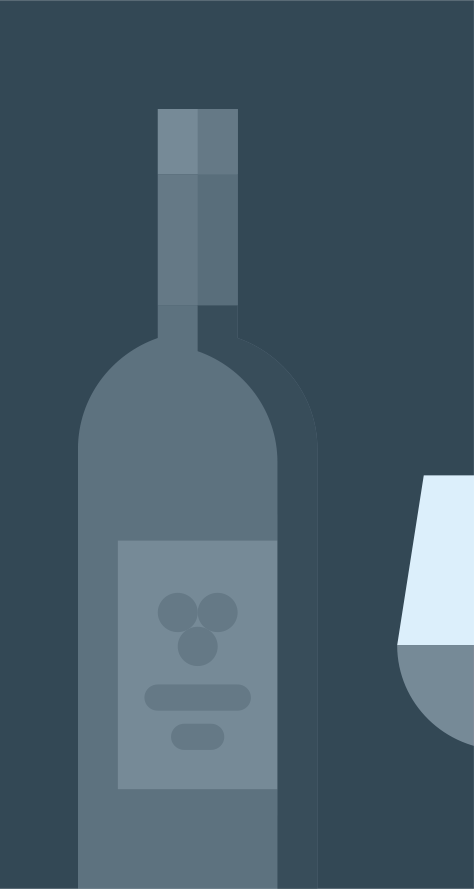
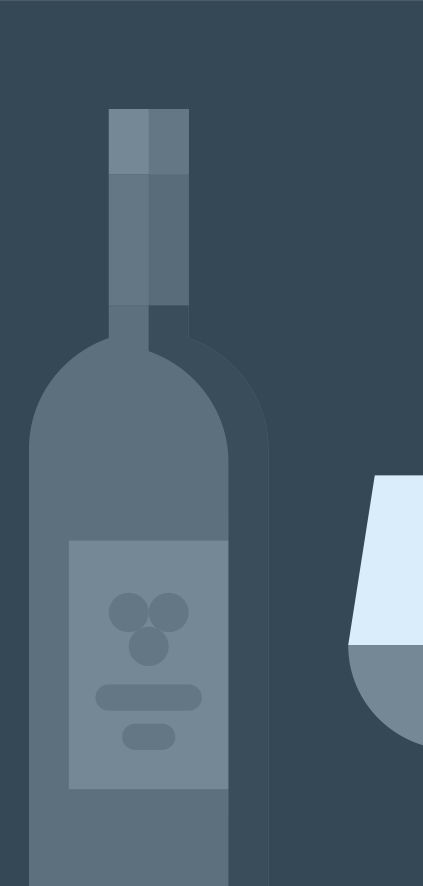
Reglage du site

Changed region(s): [[0.0615, 0.1219, 0.5839, 1.0], [0.7991, 0.5181, 1.0, 0.8228]]

diff --git a/index.html b/index.html
@@ -180,7 +180,9 @@
                                 <h3>Fête des bières bretonnes de Landrévarzec Janvier 2018</h3>
                                 <p>01/12/2017</p>
                             </div>
-                            <div class="swiper-slide-texte"><p>Lorem ipsum, dolor sit amet consectetur adipisicing elit. Asperiores ad, itaque minus harum laborum sequi quae a voluptas soluta nobis illum placeat. Maiores eius minus suscipit nulla dolore aspernatur molestiae. Lorem ipsum dolor sit amet consectetur adipisicing elit. Autem quam aspernatur fugit minus at facere, mollitia earum dignissimos. Obcaecati dignissimos sit doloremque! Ab minima quo nesciunt voluptatum dolore voluptates blanditiis.<br /><br />Lorem ipsum dolor sit amet consectetur adipisicing elit. Nemo, perspiciatis quia! Repudiandae aspernatur suscipit quidem molestiae impedit sunt possimus quia, ullam dolorum neque ipsam consequuntur? Ducimus iusto delectus. Lorem ipsum dolor sit amet consectetur adipisicing elit. Et laborum accusamus excepturi iusto libero officia dolores, minus earum, veritatis alias adipisci expedita maiores delectus magni id nesciunt, officiis unde? Dolore!</p>
+                            <div class="swiper-slide-texte">
+                                <p>Lorem ipsum, dolor sit amet consectetur adipisicing elit. Asperiores ad, itaque minus harum laborum sequi quae a voluptas soluta nobis illum placeat. Maiores eius minus suscipit nulla dolore aspernatur molestiae. Lorem ipsum dolor sit amet consectetur adipisicing elit. Autem quam aspernatur fugit minus at facere, mollitia earum dignissimos. Obcaecati dignissimos sit doloremque! </p>
+                                <a href="index.html">En savoir plus</a>
                             </div>
                         </div>
                         <div class="swiper-slide">
@@ -188,7 +190,9 @@
                                 <h3>Où sortir à Rennes ?</h3>
                                 <p>15/01/2018</p>
                             </div>
-                            <div class="swiper-slide-texte">Lorem ipsum, dolor sit amet consectetur adipisicing elit. Asperiores ad, itaque minus harum laborum sequi quae a voluptas soluta nobis illum placeat. Maiores eius minus suscipit nulla dolore aspernatur molestiae. Lorem ipsum dolor sit amet consectetur adipisicing elit. Autem quam aspernatur fugit minus at facere, mollitia earum dignissimos. Obcaecati dignissimos sit doloremque! Ab minima quo nesciunt voluptatum dolore voluptates blanditiis.<br /><br />Lorem ipsum dolor sit amet consectetur adipisicing elit. Nemo, perspiciatis quia! Repudiandae aspernatur suscipit quidem molestiae impedit sunt possimus quia, ullam dolorum neque ipsam consequuntur? Ducimus iusto delectus. Lorem ipsum dolor sit amet consectetur adipisicing elit. Et laborum accusamus excepturi iusto libero officia dolores, minus earum, veritatis alias adipisci expedita maiores delectus magni id nesciunt, officiis unde? Dolore!
+                            <div class="swiper-slide-texte">
+                                <p>Lorem ipsum, dolor sit amet consectetur adipisicing elit. Asperiores ad, itaque minus harum laborum sequi quae a voluptas soluta nobis illum placeat. Maiores eius minus suscipit nulla dolore aspernatur molestiae. Lorem ipsum dolor sit amet consectetur adipisicing elit. Autem quam aspernatur fugit minus at facere, mollitia earum dignissimos. Obcaecati dignissimos sit doloremque! </p>
+                                <a href="index.html">En savoir plus</a>
                             </div>
                         </div>
                         <div class="swiper-slide">
@@ -196,7 +200,9 @@
                                 <h3>Recettes de cocktails et boissons</h3>
                                 <p>20/02/2018</p>
                             </div>
-                            <div class="swiper-slide-texte">Lorem ipsum, dolor sit amet consectetur adipisicing elit. Asperiores ad, itaque minus harum laborum sequi quae a voluptas soluta nobis illum placeat. Maiores eius minus suscipit nulla dolore aspernatur molestiae. Lorem ipsum dolor sit amet consectetur adipisicing elit. Autem quam aspernatur fugit minus at facere, mollitia earum dignissimos. Obcaecati dignissimos sit doloremque! Ab minima quo nesciunt voluptatum dolore voluptates blanditiis.<br /><br />Lorem ipsum dolor sit amet consectetur adipisicing elit. Nemo, perspiciatis quia! Repudiandae aspernatur suscipit quidem molestiae impedit sunt possimus quia, ullam dolorum neque ipsam consequuntur? Ducimus iusto delectus. Lorem ipsum dolor sit amet consectetur adipisicing elit. Et laborum accusamus excepturi iusto libero officia dolores, minus earum, veritatis alias adipisci expedita maiores delectus magni id nesciunt, officiis unde? Dolore!
+                            <div class="swiper-slide-texte">
+                                <p>Lorem ipsum, dolor sit amet consectetur adipisicing elit. Asperiores ad, itaque minus harum laborum sequi quae a voluptas soluta nobis illum placeat. Maiores eius minus suscipit nulla dolore aspernatur molestiae. Lorem ipsum dolor sit amet consectetur adipisicing elit. Autem quam aspernatur fugit minus at facere, mollitia earum dignissimos. Obcaecati dignissimos sit doloremque! </p>
+                                <a href="index.html">En savoir plus</a>
                             </div>
                         </div>
                         <div class="swiper-slide">
@@ -204,7 +210,9 @@
                                 <h3>Lorem ipsum</h3>
                                 <p>xX/xX/xXxX</p>
                             </div>
-                            <div class="swiper-slide-texte">Lorem ipsum, dolor sit amet consectetur adipisicing elit. Asperiores ad, itaque minus harum laborum sequi quae a voluptas soluta nobis illum placeat. Maiores eius minus suscipit nulla dolore aspernatur molestiae. Lorem ipsum dolor sit amet consectetur adipisicing elit. Autem quam aspernatur fugit minus at facere, mollitia earum dignissimos. Obcaecati dignissimos sit doloremque! Ab minima quo nesciunt voluptatum dolore voluptates blanditiis.<br /><br />Lorem ipsum dolor sit amet consectetur adipisicing elit. Nemo, perspiciatis quia! Repudiandae aspernatur suscipit quidem molestiae impedit sunt possimus quia, ullam dolorum neque ipsam consequuntur? Ducimus iusto delectus. Lorem ipsum dolor sit amet consectetur adipisicing elit. Et laborum accusamus excepturi iusto libero officia dolores, minus earum, veritatis alias adipisci expedita maiores delectus magni id nesciunt, officiis unde? Dolore!
+                            <div class="swiper-slide-texte">
+                                <p>Lorem ipsum, dolor sit amet consectetur adipisicing elit. Asperiores ad, itaque minus harum laborum sequi quae a voluptas soluta nobis illum placeat. Maiores eius minus suscipit nulla dolore aspernatur molestiae. Lorem ipsum dolor sit amet consectetur adipisicing elit. Autem quam aspernatur fugit minus at facere, mollitia earum dignissimos. Obcaecati dignissimos sit doloremque! </p>
+                                <a href="index.html">En savoir plus</a>
                             </div>
                         </div>
                         <div class="swiper-slide">
@@ -212,7 +220,9 @@
                                 <h3>Lorem ipsum</h3>
                                 <p>xX/xX/xXxX</p>
                             </div>
-                            <div class="swiper-slide-texte">Lorem ipsum, dolor sit amet consectetur adipisicing elit. Asperiores ad, itaque minus harum laborum sequi quae a voluptas soluta nobis illum placeat. Maiores eius minus suscipit nulla dolore aspernatur molestiae. Lorem ipsum dolor sit amet consectetur adipisicing elit. Autem quam aspernatur fugit minus at facere, mollitia earum dignissimos. Obcaecati dignissimos sit doloremque! Ab minima quo nesciunt voluptatum dolore voluptates blanditiis.<br /><br />Lorem ipsum dolor sit amet consectetur adipisicing elit. Nemo, perspiciatis quia! Repudiandae aspernatur suscipit quidem molestiae impedit sunt possimus quia, ullam dolorum neque ipsam consequuntur? Ducimus iusto delectus. Lorem ipsum dolor sit amet consectetur adipisicing elit. Et laborum accusamus excepturi iusto libero officia dolores, minus earum, veritatis alias adipisci expedita maiores delectus magni id nesciunt, officiis unde? Dolore!
+                            <div class="swiper-slide-texte">
+                                <p>Lorem ipsum, dolor sit amet consectetur adipisicing elit. Asperiores ad, itaque minus harum laborum sequi quae a voluptas soluta nobis illum placeat. Maiores eius minus suscipit nulla dolore aspernatur molestiae. Lorem ipsum dolor sit amet consectetur adipisicing elit. Autem quam aspernatur fugit minus at facere, mollitia earum dignissimos. Obcaecati dignissimos sit doloremque! </p>
+                                <a href="index.html">En savoir plus</a>
                             </div>
                         </div>
                         <div class="swiper-slide">
@@ -220,7 +230,9 @@
                                 <h3>Lorem ipsum</h3>
                                 <p>xX/xX/xXxX</p>
                             </div>
-                            <div class="swiper-slide-texte">Lorem ipsum, dolor sit amet consectetur adipisicing elit. Asperiores ad, itaque minus harum laborum sequi quae a voluptas soluta nobis illum placeat. Maiores eius minus suscipit nulla dolore aspernatur molestiae. Lorem ipsum dolor sit amet consectetur adipisicing elit. Autem quam aspernatur fugit minus at facere, mollitia earum dignissimos. Obcaecati dignissimos sit doloremque! Ab minima quo nesciunt voluptatum dolore voluptates blanditiis.<br /><br />Lorem ipsum dolor sit amet consectetur adipisicing elit. Nemo, perspiciatis quia! Repudiandae aspernatur suscipit quidem molestiae impedit sunt possimus quia, ullam dolorum neque ipsam consequuntur? Ducimus iusto delectus. Lorem ipsum dolor sit amet consectetur adipisicing elit. Et laborum accusamus excepturi iusto libero officia dolores, minus earum, veritatis alias adipisci expedita maiores delectus magni id nesciunt, officiis unde? Dolore!
+                            <div class="swiper-slide-texte">
+                                <p>Lorem ipsum, dolor sit amet consectetur adipisicing elit. Asperiores ad, itaque minus harum laborum sequi quae a voluptas soluta nobis illum placeat. Maiores eius minus suscipit nulla dolore aspernatur molestiae. Lorem ipsum dolor sit amet consectetur adipisicing elit. Autem quam aspernatur fugit minus at facere, mollitia earum dignissimos. Obcaecati dignissimos sit doloremque! </p>
+                                <a href="index.html">En savoir plus</a>
                             </div>
                         </div>
                         <div class="swiper-slide">
@@ -228,7 +240,9 @@
                                 <h3>Lorem ipsum</h3>
                                 <p>xX/xX/xXxX</p>
                             </div>
-                            <div class="swiper-slide-texte">Lorem ipsum, dolor sit amet consectetur adipisicing elit. Asperiores ad, itaque minus harum laborum sequi quae a voluptas soluta nobis illum placeat. Maiores eius minus suscipit nulla dolore aspernatur molestiae. Lorem ipsum dolor sit amet consectetur adipisicing elit. Autem quam aspernatur fugit minus at facere, mollitia earum dignissimos. Obcaecati dignissimos sit doloremque! Ab minima quo nesciunt voluptatum dolore voluptates blanditiis.<br /><br />Lorem ipsum dolor sit amet consectetur adipisicing elit. Nemo, perspiciatis quia! Repudiandae aspernatur suscipit quidem molestiae impedit sunt possimus quia, ullam dolorum neque ipsam consequuntur? Ducimus iusto delectus. Lorem ipsum dolor sit amet consectetur adipisicing elit. Et laborum accusamus excepturi iusto libero officia dolores, minus earum, veritatis alias adipisci expedita maiores delectus magni id nesciunt, officiis unde? Dolore!
+                            <div class="swiper-slide-texte">
+                                <p>Lorem ipsum, dolor sit amet consectetur adipisicing elit. Asperiores ad, itaque minus harum laborum sequi quae a voluptas soluta nobis illum placeat. Maiores eius minus suscipit nulla dolore aspernatur molestiae. Lorem ipsum dolor sit amet consectetur adipisicing elit. Autem quam aspernatur fugit minus at facere, mollitia earum dignissimos. Obcaecati dignissimos sit doloremque! </p>
+                                <a href="index.html">En savoir plus</a>
                             </div>
                         </div>
                         <div class="swiper-slide">
@@ -236,7 +250,9 @@
                                 <h3>Lorem ipsum</h3>
                                 <p>xX/xX/xXxX</p>
                             </div>
-                            <div class="swiper-slide-texte">Lorem ipsum, dolor sit amet consectetur adipisicing elit. Asperiores ad, itaque minus harum laborum sequi quae a voluptas soluta nobis illum placeat. Maiores eius minus suscipit nulla dolore aspernatur molestiae. Lorem ipsum dolor sit amet consectetur adipisicing elit. Autem quam aspernatur fugit minus at facere, mollitia earum dignissimos. Obcaecati dignissimos sit doloremque! Ab minima quo nesciunt voluptatum dolore voluptates blanditiis.<br /><br />Lorem ipsum dolor sit amet consectetur adipisicing elit. Nemo, perspiciatis quia! Repudiandae aspernatur suscipit quidem molestiae impedit sunt possimus quia, ullam dolorum neque ipsam consequuntur? Ducimus iusto delectus. Lorem ipsum dolor sit amet consectetur adipisicing elit. Et laborum accusamus excepturi iusto libero officia dolores, minus earum, veritatis alias adipisci expedita maiores delectus magni id nesciunt, officiis unde? Dolore!
+                            <div class="swiper-slide-texte">
+                                <p>Lorem ipsum, dolor sit amet consectetur adipisicing elit. Asperiores ad, itaque minus harum laborum sequi quae a voluptas soluta nobis illum placeat. Maiores eius minus suscipit nulla dolore aspernatur molestiae. Lorem ipsum dolor sit amet consectetur adipisicing elit. Autem quam aspernatur fugit minus at facere, mollitia earum dignissimos. Obcaecati dignissimos sit doloremque! </p>
+                                <a href="index.html">En savoir plus</a>
                             </div>
                         </div>
                         <div class="swiper-slide">
@@ -244,7 +260,9 @@
                                 <h3>Lorem ipsum</h3>
                                 <p>xX/xX/xXxX</p>
                             </div>
-                            <div class="swiper-slide-texte">Lorem ipsum, dolor sit amet consectetur adipisicing elit. Asperiores ad, itaque minus harum laborum sequi quae a voluptas soluta nobis illum placeat. Maiores eius minus suscipit nulla dolore aspernatur molestiae. Lorem ipsum dolor sit amet consectetur adipisicing elit. Autem quam aspernatur fugit minus at facere, mollitia earum dignissimos. Obcaecati dignissimos sit doloremque! Ab minima quo nesciunt voluptatum dolore voluptates blanditiis.<br /><br />Lorem ipsum dolor sit amet consectetur adipisicing elit. Nemo, perspiciatis quia! Repudiandae aspernatur suscipit quidem molestiae impedit sunt possimus quia, ullam dolorum neque ipsam consequuntur? Ducimus iusto delectus. Lorem ipsum dolor sit amet consectetur adipisicing elit. Et laborum accusamus excepturi iusto libero officia dolores, minus earum, veritatis alias adipisci expedita maiores delectus magni id nesciunt, officiis unde? Dolore!
+                            <div class="swiper-slide-texte">
+                                <p>Lorem ipsum, dolor sit amet consectetur adipisicing elit. Asperiores ad, itaque minus harum laborum sequi quae a voluptas soluta nobis illum placeat. Maiores eius minus suscipit nulla dolore aspernatur molestiae. Lorem ipsum dolor sit amet consectetur adipisicing elit. Autem quam aspernatur fugit minus at facere, mollitia earum dignissimos. Obcaecati dignissimos sit doloremque! </p>
+                                <a href="index.html">En savoir plus</a>
                             </div>
                         </div>
                         <div class="swiper-slide">
@@ -252,7 +270,9 @@
                                 <h3>Lorem ipsum</h3>
                                 <p>xX/xX/xXxX</p>
                             </div>
-                            <div class="swiper-slide-texte">Lorem ipsum, dolor sit amet consectetur adipisicing elit. Asperiores ad, itaque minus harum laborum sequi quae a voluptas soluta nobis illum placeat. Maiores eius minus suscipit nulla dolore aspernatur molestiae. Lorem ipsum dolor sit amet consectetur adipisicing elit. Autem quam aspernatur fugit minus at facere, mollitia earum dignissimos. Obcaecati dignissimos sit doloremque! Ab minima quo nesciunt voluptatum dolore voluptates blanditiis.<br /><br />Lorem ipsum dolor sit amet consectetur adipisicing elit. Nemo, perspiciatis quia! Repudiandae aspernatur suscipit quidem molestiae impedit sunt possimus quia, ullam dolorum neque ipsam consequuntur? Ducimus iusto delectus. Lorem ipsum dolor sit amet consectetur adipisicing elit. Et laborum accusamus excepturi iusto libero officia dolores, minus earum, veritatis alias adipisci expedita maiores delectus magni id nesciunt, officiis unde? Dolore!
+                            <div class="swiper-slide-texte">
+                                <p>Lorem ipsum, dolor sit amet consectetur adipisicing elit. Asperiores ad, itaque minus harum laborum sequi quae a voluptas soluta nobis illum placeat. Maiores eius minus suscipit nulla dolore aspernatur molestiae. Lorem ipsum dolor sit amet consectetur adipisicing elit. Autem quam aspernatur fugit minus at facere, mollitia earum dignissimos. Obcaecati dignissimos sit doloremque! </p>
+                                <a href="index.html">En savoir plus</a>
                             </div>
                         </div>
                     </div>

diff --git a/assets/css/style.css b/assets/css/style.css
@@ -111,7 +111,7 @@ p {
     background-size: 70%;
     background-repeat: no-repeat;
     background-position: center;
-    transition: .5s;
+    transition: .2s;
 }
 
 
@@ -133,7 +133,7 @@ p {
 .navbarPage {
     height: 65px;
     width: 100%;
-    background-color: #2c4553;
+    background-color: #344955;
     justify-content: space-between;
     position: fixed;
     z-index: 100;
@@ -206,7 +206,7 @@ p {
 .section1 .u-wrapper,
 .section2 .u-wrapper {
     overflow: hidden;
-    background-color: #2c4553;
+    background-color: #344955;
     display: flex;
     justify-content: flex-start;
     overflow:hidden;
@@ -219,7 +219,7 @@ p {
     display: flex;
     flex-direction: column;
     justify-content: center;
-    background-color: #2c4553;
+    background-color: #344955;
 }
 
 .section1 .visuel {
@@ -336,7 +336,7 @@ p {
     position: absolute;
     height: 100%;
     width: 40%;
-    background-color: #2c4553;
+    background-color: #344955;
     left: 0;
     bottom: 0;
 }
@@ -405,7 +405,7 @@ p {
     position: relative;
     width: 101%;
     height: 100%;
-    background-color: #2c4553;
+    background-color: #344955;
     display: flex;
     flex-direction: column;
     justify-content: center;
@@ -548,8 +548,7 @@ p {
     justify-content: center;
     padding: 3rem;
     font-size: 12px;
-    color: #2c4553;
-    max-height: 35vh;
+    color: #344955;
 }
 
 #swiper-actu .swiper-slide-texte p {
@@ -558,10 +557,22 @@ p {
     justify-content: center;
     padding: 0;
     font-size: 12px;
-    white-space: nowrap;
-    text-overflow: ellipsis;
-    overflow: hidden;
-    color: #2c4553;
+    color: #344955;
+}
+
+#swiper-actu .swiper-slide-texte a {
+    padding: 10px;
+    margin-top: 20px;
+    background-color: #344955;
+    max-width: 30%;
+    text-align: center;
+    color: #fff;
+    text-decoration: none;
+    transition: .2s;
+}
+
+#swiper-actu .swiper-slide-texte a:hover {
+    box-shadow: 0 0 10px 0 rgba(0, 0, 0, 0.5);
 }
 
 #swiper-actu .swiper-slide-header h3 {
@@ -617,7 +628,7 @@ p {
     position: absolute;
     height: 100%;
     width: 50%;
-    background-color: #2c4553;
+    background-color: #344955;
     left: 0;
     bottom: 0;
 }
@@ -687,7 +698,7 @@ p {
 }
 
 .section5 .swiper-pagination-bullet-active {
-    background-color: #2c4553;
+    background-color: #344955;
 }
 
 .section5 .swiper-pagination-bullet {
@@ -699,7 +710,7 @@ p {
     position: relative;
     width: 100%;
     height: 100%;
-    background-color: #2c4553;
+    background-color: #344955;
     box-shadow: 0 0px 20px 0 rgba(0, 0, 0, 0.3);
     display: flex;
     flex-direction: column;
@@ -751,7 +762,7 @@ p {
     top: -.5rem;
     left: 0;
     width: 100%;
-    height: 0.05rem;
+    height: 1px;
     background-color: white;
 }
 
@@ -778,7 +789,7 @@ p {
     overflow: hidden;
     height: 100vh;
     display: flex;
-    background-color: #2c4553;
+    background-color: #344955;
     justify-content: flex-start;
 }
 
@@ -861,7 +872,7 @@ p {
     padding: 1rem 1rem;
     font-family: "Open Sans", sans;
     font-weight: 400;
-    color: #2c4553;
+    color: #344955;
     border: 0;
     outline: 0;
     text-indent: 60px;
@@ -882,7 +893,7 @@ p {
     left: 0;
     bottom: 8px;
     padding: 5px 15px;
-    color: #2c4553;
+    color: #344955;
     font-size: 0.875rem;
     text-shadow: 0 1px 0 rgba(19, 74, 70, 0);
     transition: all .3s ease-in-out;
@@ -914,7 +925,7 @@ p {
 
 .balloon:focus,
 .balloon:active {
-    color: #2c4553;
+    color: #344955;
     text-indent: 0;
     background: #fff;
 }
@@ -930,7 +941,7 @@ p {
 .balloon:active + textarea {
     color: #fff;
     text-shadow: 0 1px 0 rgba(19, 74, 70, 0.4);
-    background: #2c4553;
+    background: #344955;
     transform: translateY(-40px);
 }
 
@@ -938,7 +949,7 @@ p {
 .balloon:active + label:after,
 .balloon:active + textarea:after,
 .balloon:active + textarea:after {
-    border-top: 4px solid #2c4553;
+    border-top: 4px solid #344955;
 }
 
 .section6 .baseline {
